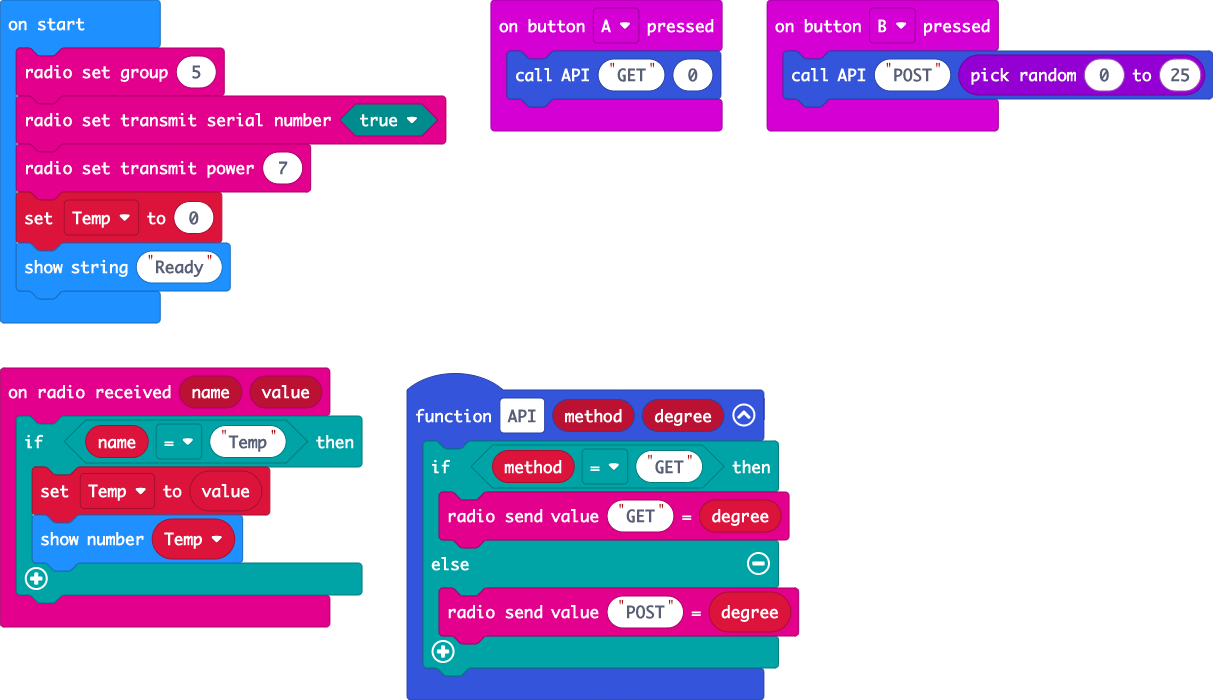
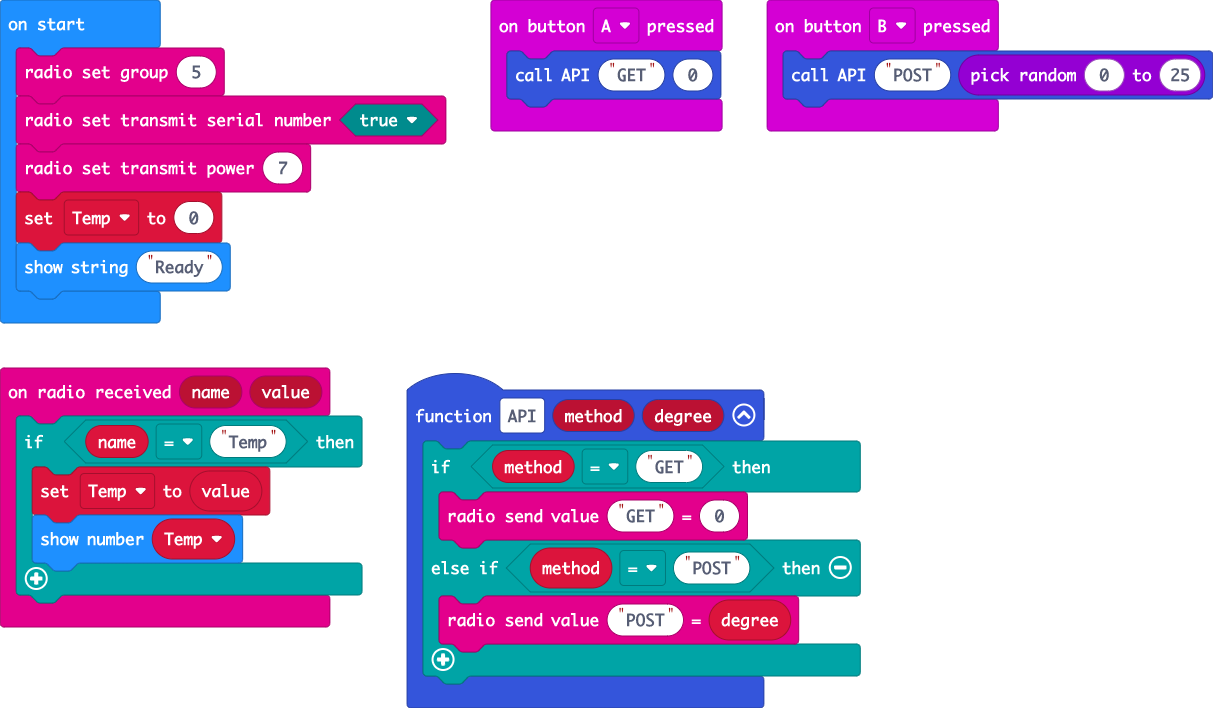
No value pass to api if GET

diff --git a/main.ts b/main.ts
@@ -1,7 +1,7 @@
 function API (method: string, degree: number) {
     if (method == "GET") {
-        radio.sendValue("GET", degree)
-    } else {
+        radio.sendValue("GET", 0)
+    } else if (method == "POST") {
         radio.sendValue("POST", degree)
     }
 }
